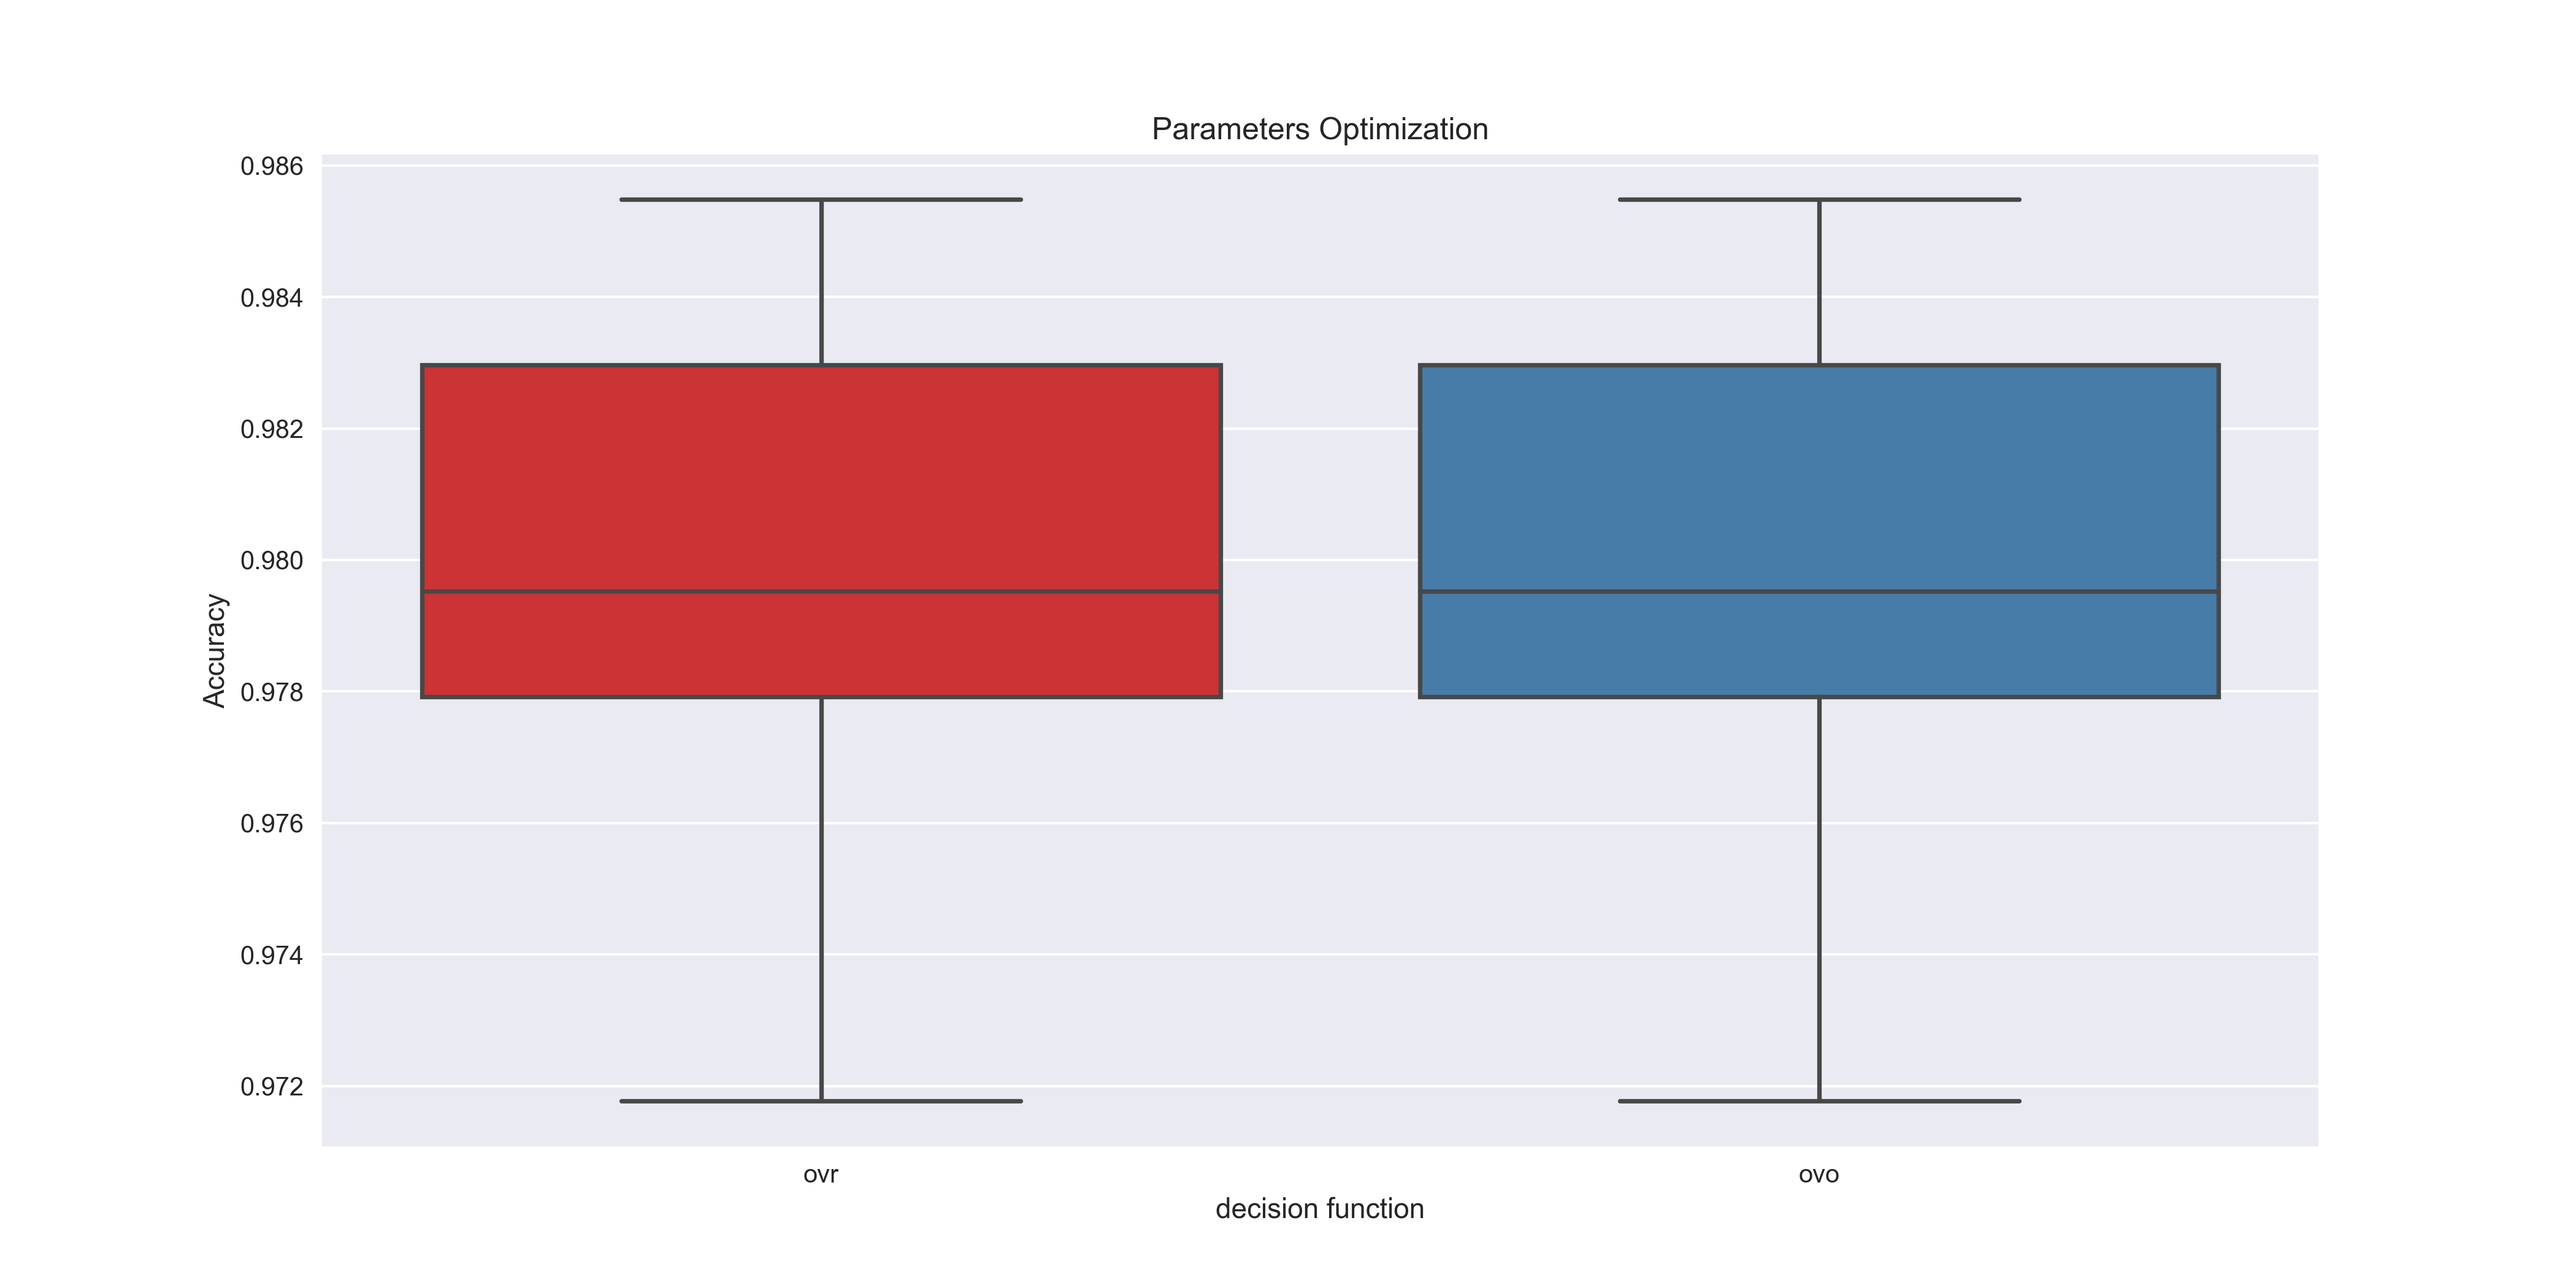
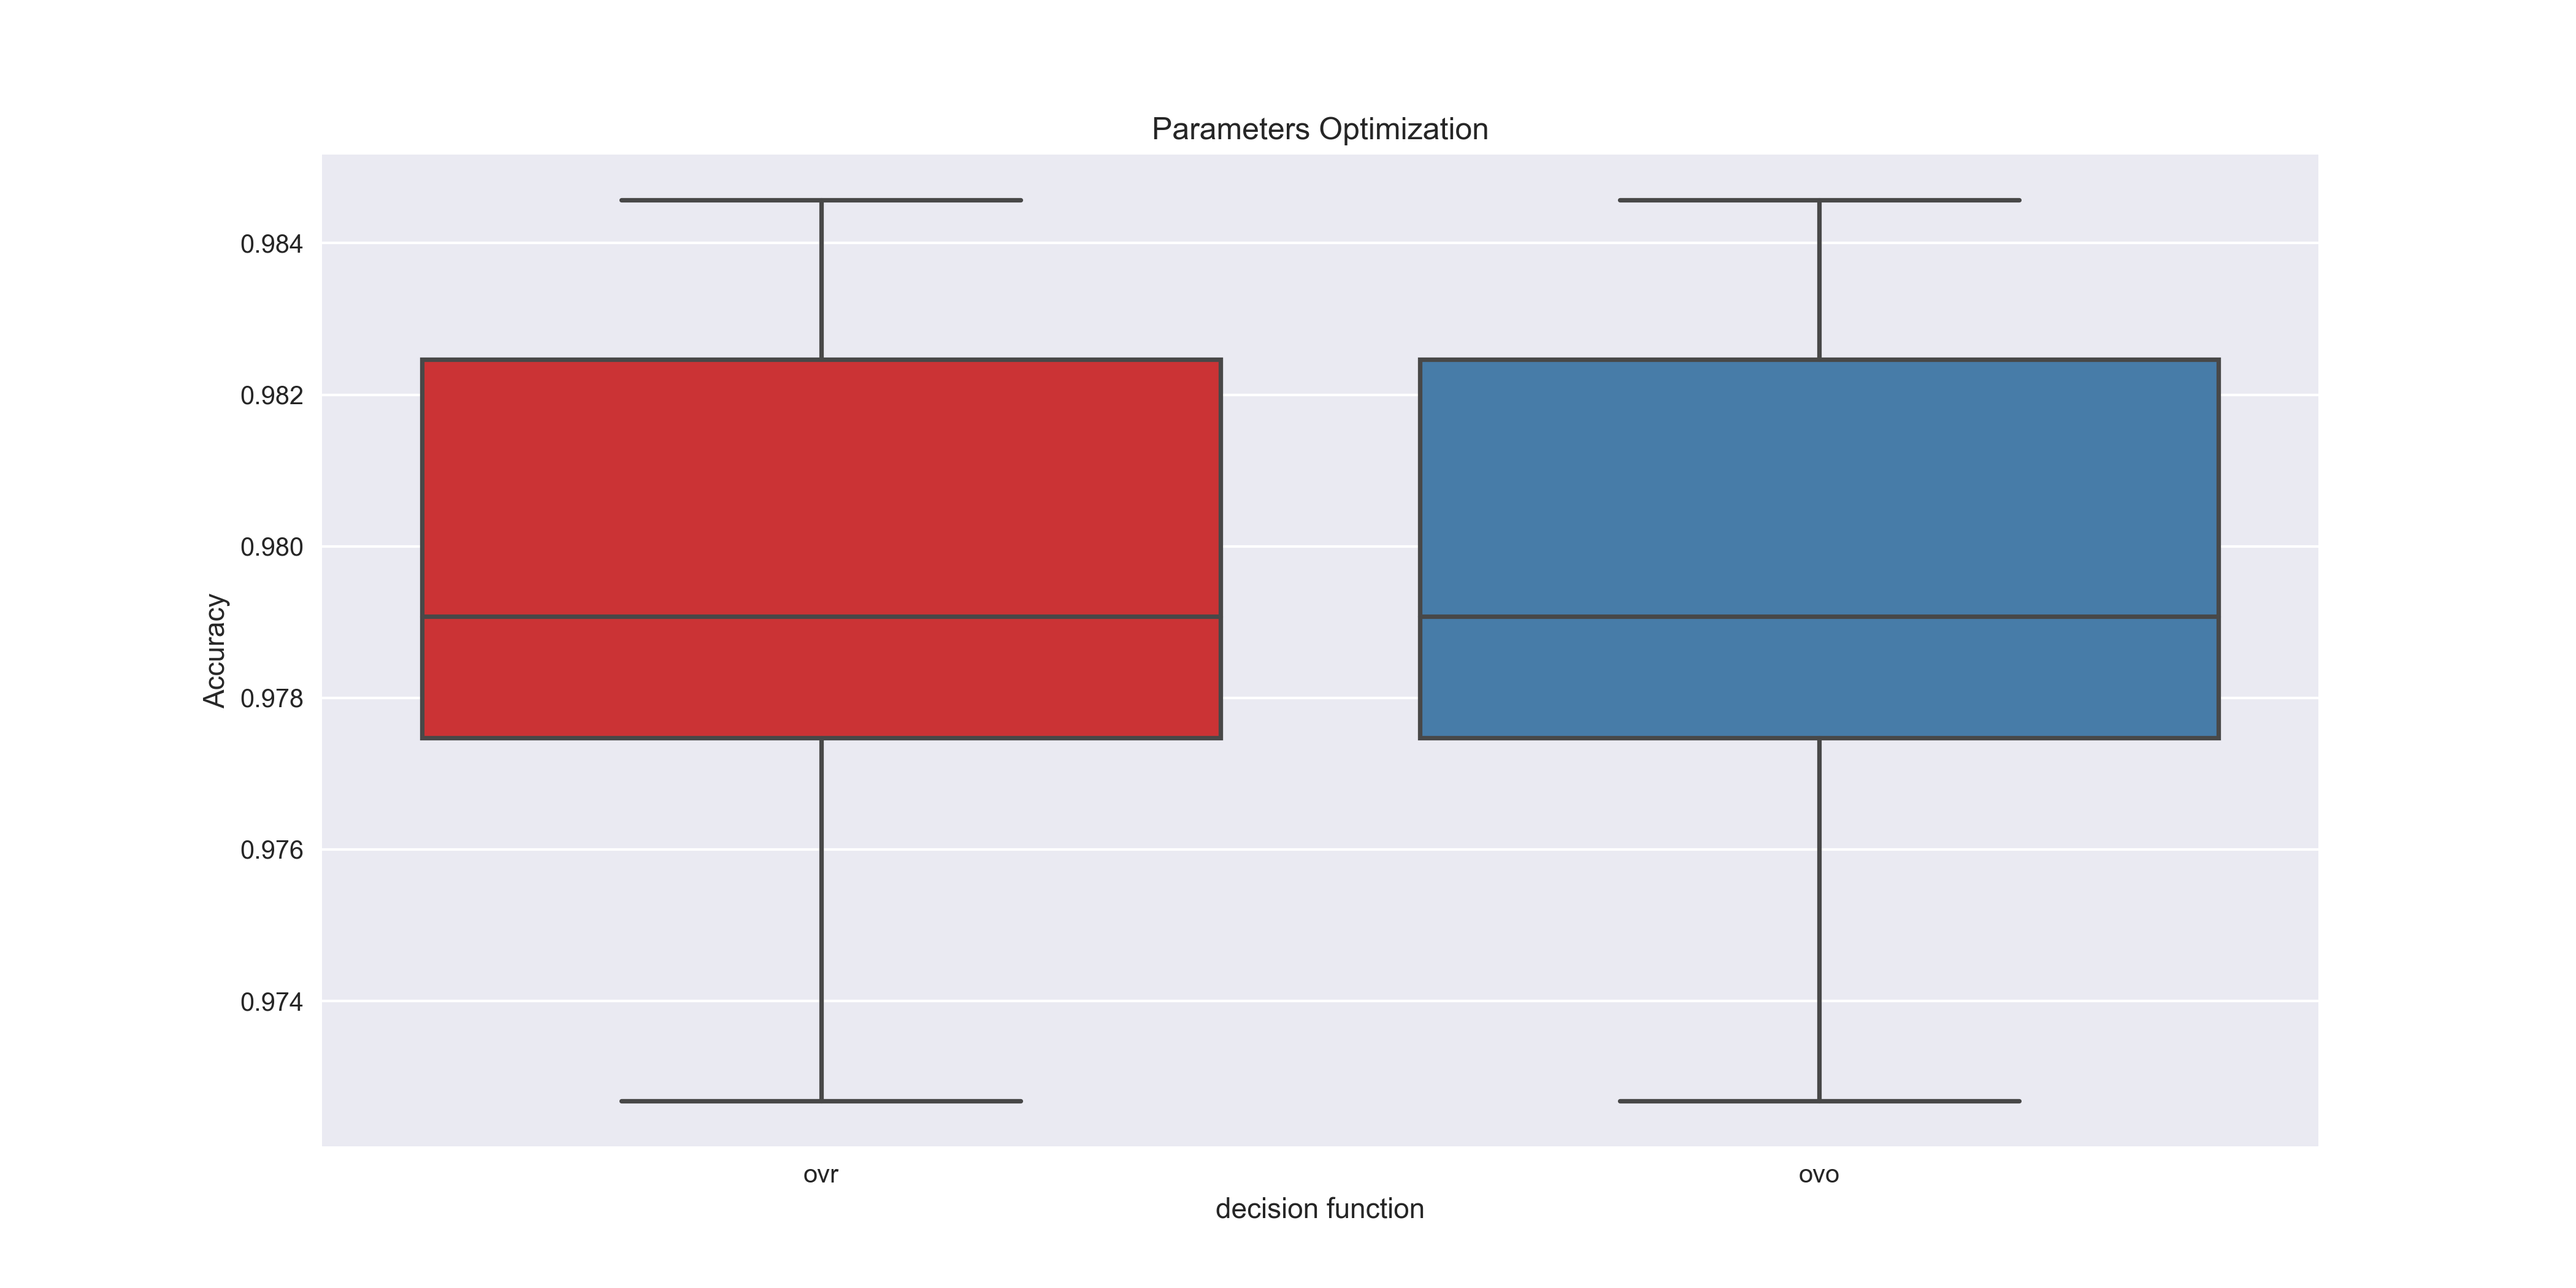
uncomment

diff --git a/ex4-SVM/main.py b/ex4-SVM/main.py
@@ -58,19 +58,19 @@ penb_res_part3 = pd.read_pickle("penb_res_part3.df") if LOAD_PICKLE else None
 """
      Hepatitis Part I:
 """
-#
-# hepa_data_set = [{'name': "hepatitis", 'dummy_value': "?", 'class_field': "Class"}]
-#
-# if hep_res_part1 is None:
-#      hep_res_part1 = main_run(hepa_data_set, kernel=['linear', 'rbf', 'sigmoid'], C=np.arange(0.1, 1.1, 0.1),
-#                               plot_fig=False)
-#
-# if SAVE_PICKLE:
-#      hep_res_part1.to_pickle("hep_res_part1.df")
-#
-# w3plot(hep_res_part1, part=1, filename="hepa_res_part1.png")
-# accept, p_value, mean_ranks, p_values = acceptance_test(hep_res_part1)
-# print('ACCEPT:', accept, 'MEAN_RANKS', mean_ranks, 'P_VALUES', p_value)
+
+hepa_data_set = [{'name': "hepatitis", 'dummy_value': "?", 'class_field': "Class"}]
+
+if hep_res_part1 is None:
+      hep_res_part1 = main_run(hepa_data_set, kernel=['linear', 'rbf', 'sigmoid'], C=np.arange(0.1, 1.1, 0.1),
+                               plot_fig=False)
+
+if SAVE_PICKLE:
+      hep_res_part1.to_pickle("hep_res_part1.df")
+
+w3plot(hep_res_part1, part=1, filename="hepa_res_part1.png")
+accept, p_value, mean_ranks, p_values = acceptance_test(hep_res_part1)
+print('ACCEPT:', accept, 'MEAN_RANKS', mean_ranks, 'P_VALUES', p_value)
 
 
 """
@@ -80,7 +80,7 @@ penb_res_part3 = pd.read_pickle("penb_res_part3.df") if LOAD_PICKLE else None
 hepa_data_set = [{'name': "hepatitis", 'dummy_value': "?", 'class_field': "Class"}]
 
 if hep_res_part2 is None:
-     hep_res_part2 = main_run(hepa_data_set, kernel=['linear'], C=np.arange(1, 1, 0.1),
+     hep_res_part2 = main_run(hepa_data_set, kernel=['linear'], C=np.arange(1, 1.05, 0.1),
                               max_iter=np.arange(100, 1000, 100), plot_fig=False)
 
 if SAVE_PICKLE:
@@ -97,33 +97,34 @@ print('ACCEPT:', accept, 'MEAN_RANKS', mean_ranks, 'P_VALUES', p_value)
     Pen-based Part I:
 
 """
-# penb_data_set = [{'name': "pen-based", 'dummy_value': "", 'class_field': "a17"}]
-#
-# if penb_res_part1 is None:
-#     #penb_res_part1 = main_run(penb_data_set, kernel=['linear', 'rbf', 'sigmoid'], C=np.arange(0.1, 1.1, 0.1),
-#                               plot_fig=False)
-# if SAVE_PICKLE:
-#     penb_res_part1.to_pickle("penb_res_part1.df")
-#
-# w3plot(penb_res_part1, part=1, filename="penb_res_part1.png")
-#
-#
-# accept, p_value, mean_ranks, p_values = acceptance_test(penb_res_part1)
-# # No point of applying Nemenyi test, p-value of 0.06 and absolute differences are between 0.98-0.99 of accurancy
-# print('ACCEPT:', accept, 'MEAN_RANKS', mean_ranks, 'P_VALUES', p_value)
+penb_data_set = [{'name': "pen-based", 'dummy_value': "", 'class_field': "a17"}]
+
+if penb_res_part1 is None:
+     #penb_res_part1 = main_run(penb_data_set, kernel=['linear', 'rbf', 'sigmoid'], C=np.arange(0.1, 1.1, 0.1),
+                               plot_fig=False)
+if SAVE_PICKLE:
+    penb_res_part1.to_pickle("penb_res_part1.df")
+
+w3plot(penb_res_part1, part=1, filename="penb_res_part1.png")
+
+
+accept, p_value, mean_ranks, p_values = acceptance_test(penb_res_part1)
+# No point of applying Nemenyi test, p-value of 0.06 and absolute differences are between 0.98-0.99 of accurancy
+print('ACCEPT:', accept, 'MEAN_RANKS', mean_ranks, 'P_VALUES', p_value)
 
 
 
 
 
 """
-    Pen-based Part II :
+    Pen-based Part III:
 
 """
+
 penb_data_set = [{'name': "pen-based", 'dummy_value': "", 'class_field': "a17"}]
 
 if penb_res_part3 is None:
-    penb_res_part3 = main_run(penb_data_set, kernel=['linear'], C=np.arange(1, 1, 0.1), decision_f=['ovr', 'ovo'],
+    penb_res_part3 = main_run(penb_data_set, kernel=['linear'], C=np.arange(1, 1.05, 0.1), decision_f=['ovr', 'ovo'],
                               plot_fig=False)
 if SAVE_PICKLE:
     penb_res_part3.to_pickle("penb_res_part3.df")
